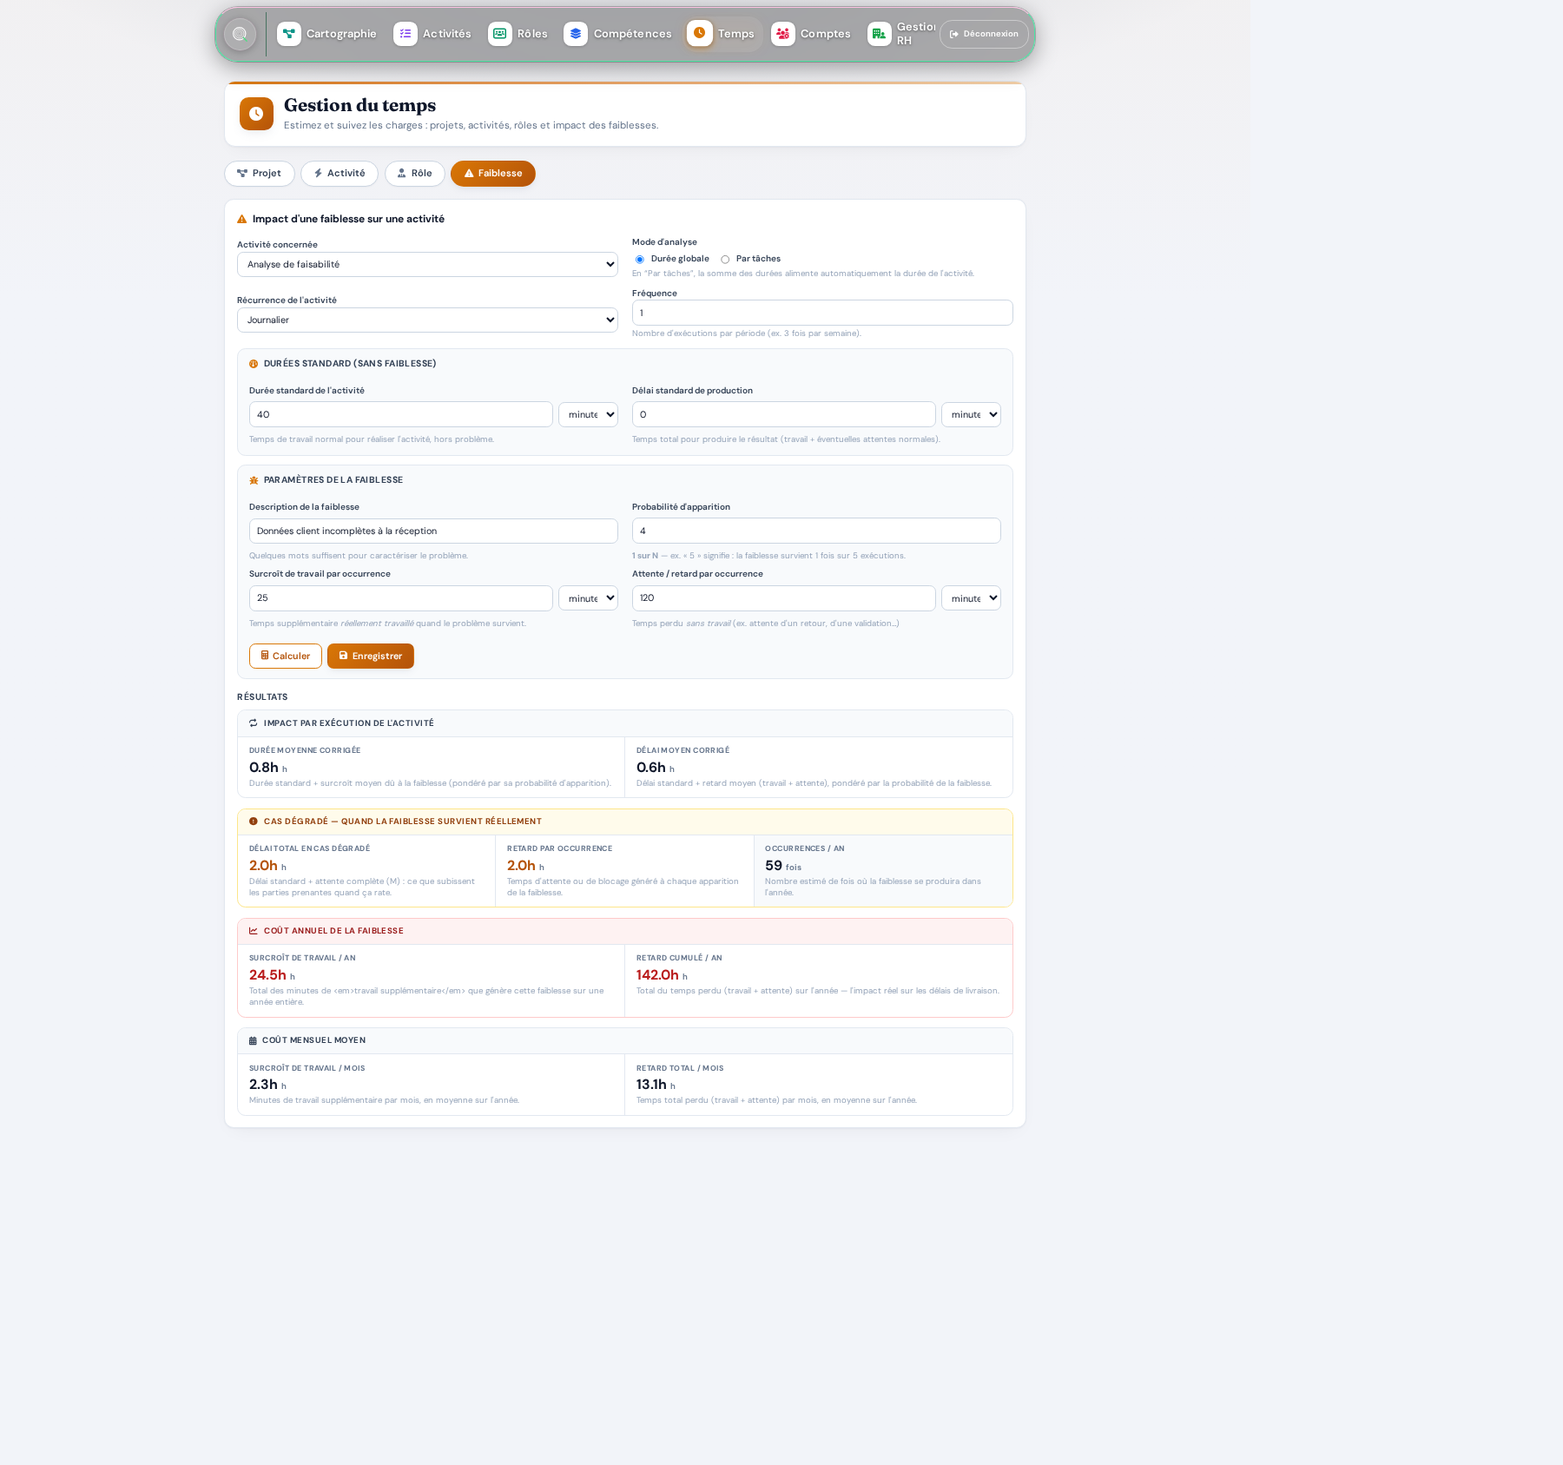
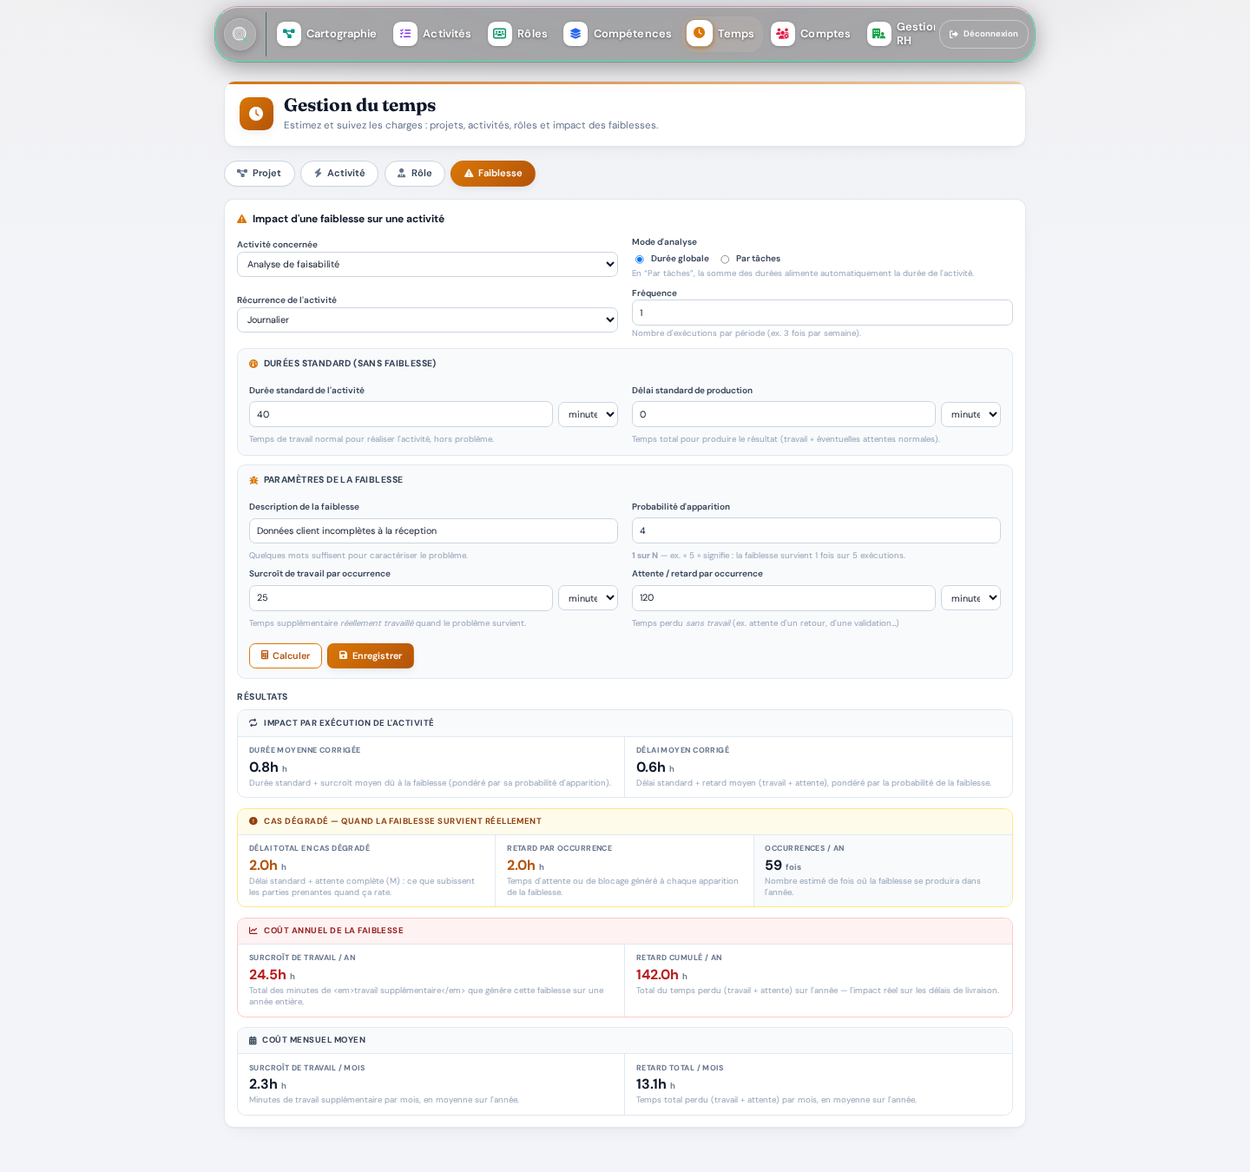
Guide : captures d'écran bilingues et recadrées
Les vidéos basculaient avec la langue, pas les captures : le guide en anglais
montrait encore des écrans français (« Gestion du temps », « Vue des Rôles »,
toute la barre de navigation).

capture_screens.py accepte GUIDE_LANG=fr|en comme capture_videos.py : la langue
est posée AVANT le login — l'écran de connexion est capturé non authentifié, il
en dépend aussi — et les fichiers sortent suffixés -en. Les sélecteurs par
libellé passent par T(fr, en), et la saisie d'exemple de la faiblesse est
traduite. Chaque <img> du guide est doublée t-fr / t-en.

Cadrage : trois captures étaient prises en full_page et faisaient 3 000 à
4 000 px de haut (role-detail, rh, temps-faiblesse). Réduites à la largeur du
guide, elles écrasaient tout le reste. shot_capped() garde le haut de la page
avec une hauteur plafonnée : elles font désormais 1440x1500 et 1440x1350, contre
1440x900 pour les autres — même famille de proportions.

Une image absente dans une langue masque l'image seule, et le cadre entier
seulement si aucune des deux versions ne charge (même règle que pour les vidéos).

Vérifié dans le navigateur, dans les deux sens : 16 captures et 8 vidéos
visibles, toutes du bon jeu, aucun média manquant.

diff --git a/docs/guide.html b/docs/guide.html
@@ -214,7 +214,7 @@
   /* Une vidéo pas encore régénérée (pipeline tools/guide) ne doit pas laisser
      un lecteur vide dans le guide : on masque la figure entière. */
   figure.no-video{display:none}
-  video.no-video{display:none}
+  video.no-video,img.no-video{display:none}
 
   /* ══ Thème sombre ══
      Seuls les jetons changent : le reste du guide s'appuie déjà dessus. */
@@ -386,7 +386,7 @@
      <i>Mot de passe oublié&nbsp;?</i> vous envoie un e-mail de réinitialisation.</span><span class="t-en">Open the application address provided by your administrator, enter your e-mail and password, then click <b>Sign in</b>. If you have forgotten it, the <i>Forgot password&nbsp;?</i> link sends you a reset e-mail.</span></p>
   <figure>
     <div class="frame"><div class="frame-bar"><i></i><i></i><i></i><span><span class="t-fr">Écran de connexion</span><span class="t-en">Sign-in screen</span></span></div>
-    <img src="assets/guide/login.png" alt="Écran de connexion" loading="lazy"></div>
+    <img class="t-fr" src="assets/guide/login.png" alt="Écran de connexion" loading="lazy"><img class="t-en" src="assets/guide/login-en.png" alt="Écran de connexion" loading="lazy"></div>
   </figure>
 
   <h3><span class="t-fr">À l'arrivée : les nouveautés</span><span class="t-en">On arrival: what's new</span></h3>
@@ -395,7 +395,7 @@
      et quand. Cliquez sur <b>C'est parti&nbsp;!</b> pour la refermer.</span><span class="t-en">The first time you sign in each day, a <b>Welcome</b> window sums up what's new in the application (on the left) and the recent activity in your workspace (on the right)&nbsp;: who changed what, and when. Click <b>Let's go&nbsp;!</b> to close it.</span></p>
   <figure>
     <div class="frame"><div class="frame-bar"><i></i><i></i><i></i><span><span class="t-fr">Fenêtre de bienvenue</span><span class="t-en">Welcome window</span></span></div>
-    <img src="assets/guide/bienvenue.png" alt="Pop-up de bienvenue" loading="lazy"></div>
+    <img class="t-fr" src="assets/guide/bienvenue.png" alt="Pop-up de bienvenue" loading="lazy"><img class="t-en" src="assets/guide/bienvenue-en.png" alt="Pop-up de bienvenue" loading="lazy"></div>
   </figure>
 
   <h3><span class="t-fr">Se repérer : la barre de navigation</span><span class="t-en">Finding your way: the navigation bar</span></h3>
@@ -403,7 +403,7 @@
      retrouverez cette couleur partout dans la page (bandeau, boutons, titres), et dans ce guide.</span><span class="t-en">The bar at the top of the screen is your compass. Each page has <b>its own icon and colour</b> — you will find that colour throughout the page (banner, buttons, headings), and in this guide.</span></p>
   <figure>
     <div class="frame"><div class="frame-bar"><i></i><i></i><i></i><span><span class="t-fr">Barre de navigation</span><span class="t-en">Navigation bar</span></span></div>
-    <img src="assets/guide/nav.png" alt="Barre de navigation" loading="lazy"></div>
+    <img class="t-fr" src="assets/guide/nav.png" alt="Barre de navigation" loading="lazy"><img class="t-en" src="assets/guide/nav-en.png" alt="Barre de navigation" loading="lazy"></div>
     <figcaption><span class="t-fr">De gauche à droite : <b>Cartographie</b> (le point de départ), <b>Activités</b>,
     <b>Rôles</b>, <b>Compétences</b>, <b>Temps</b>, <b>Comptes</b>, <b>Gestion RH</b>, <b>Outils</b>,
     <b>Paramètres</b> — et la déconnexion tout à droite.</span><span class="t-en">From left to right: <b>Activity map</b> (the starting point), <b>Activities</b>, <b>Roles</b>, <b>Competencies</b>, <b>Time</b>, <b>Accounts</b>, <b>HR management</b>, <b>Tools</b>, <b>Settings</b> — and sign-out on the far right.</span></figcaption>
@@ -468,7 +468,7 @@
 
   <figure>
     <div class="frame"><div class="frame-bar"><i></i><i></i><i></i><span><span class="t-fr">Page Cartographie</span><span class="t-en">Activity map page</span></span></div>
-    <img src="assets/guide/carto.png" alt="Page cartographie" loading="lazy"></div>
+    <img class="t-fr" src="assets/guide/carto.png" alt="Page cartographie" loading="lazy"><img class="t-en" src="assets/guide/carto-en.png" alt="Page cartographie" loading="lazy"></div>
     <figcaption><span class="t-fr"><b>À gauche</b>&nbsp;: la carte (chaque couleur de bande = une compétence clé).
     <b>À droite</b>&nbsp;: la liste des activités de la carte, avec recherche.
     <b>En haut</b>&nbsp;: Import IA, Connexions inter-cartographies et Gestion des entités.</span><span class="t-en"><b>On the left</b>&nbsp;: the map (each band colour = one key competency). <b>On the right</b>&nbsp;: the list of activities on the map, with search. <b>At the top</b>&nbsp;: AI import, cross-map connections and entity management.</span></figcaption>
@@ -650,7 +650,7 @@
 
   <figure>
     <div class="frame"><div class="frame-bar"><i></i><i></i><i></i><span><span class="t-fr">Liste des activités</span><span class="t-en">Activity list</span></span></div>
-    <img src="assets/guide/activites-liste.png" alt="Liste des activités" loading="lazy"></div>
+    <img class="t-fr" src="assets/guide/activites-liste.png" alt="Liste des activités" loading="lazy"><img class="t-en" src="assets/guide/activites-liste-en.png" alt="Liste des activités" loading="lazy"></div>
     <figcaption><span class="t-fr">Chaque barre violette est une activité. La <b>barre de recherche</b> filtre la liste en
     direct&nbsp;; un clic sur une barre déplie la fiche.</span><span class="t-en">Each purple bar is an activity. The <b>search bar</b> filters the list live&nbsp;; clicking a bar unfolds the record.</span></figcaption>
   </figure>
@@ -667,7 +667,7 @@
   </ul>
   <figure>
     <div class="frame"><div class="frame-bar"><i></i><i></i><i></i><span><span class="t-fr">Fiche d'activité — Vue d'ensemble</span><span class="t-en">Activity record — Overview</span></span></div>
-    <img src="assets/guide/activite-fiche.png" alt="Fiche activité" loading="lazy"></div>
+    <img class="t-fr" src="assets/guide/activite-fiche.png" alt="Fiche activité" loading="lazy"><img class="t-en" src="assets/guide/activite-fiche-en.png" alt="Fiche activité" loading="lazy"></div>
     <figcaption><span class="t-fr">Sous le titre&nbsp;: la description et le <b>Garant</b>. Les tableaux
     <b>Entrantes/Sortantes</b> listent les données qui arrivent et repartent — ce sont exactement les
     flèches de la cartographie.</span><span class="t-en">Under the title&nbsp;: the description and the <b>Owner</b>. The <b>Incoming/Outgoing</b> tables list the data arriving and leaving — these are exactly the arrows on the activity map.</span></figcaption>
@@ -789,7 +789,7 @@
 
   <figure>
     <div class="frame"><div class="frame-bar"><i></i><i></i><i></i><span><span class="t-fr">Page Rôles</span><span class="t-en">Roles page</span></span></div>
-    <img src="assets/guide/roles-liste.png" alt="Liste des rôles" loading="lazy"></div>
+    <img class="t-fr" src="assets/guide/roles-liste.png" alt="Liste des rôles" loading="lazy"><img class="t-en" src="assets/guide/roles-liste-en.png" alt="Liste des rôles" loading="lazy"></div>
     <figcaption><span class="t-fr">Une barre verte par rôle. En haut&nbsp;: la <b>recherche</b> et le bouton
     <b>Exporter</b>.</span><span class="t-en">One green bar per role. At the top&nbsp;: the <b>search</b> box and the <b>Export</b> button.</span></figcaption>
   </figure>
@@ -806,7 +806,7 @@
   </ul>
   <figure>
     <div class="frame"><div class="frame-bar"><i></i><i></i><i></i><span><span class="t-fr">Fiche d'un rôle dépliée</span><span class="t-en">A role record, unfolded</span></span></div>
-    <img src="assets/guide/role-detail.png" alt="Détail d'un rôle" loading="lazy"></div>
+    <img class="t-fr" src="assets/guide/role-detail.png" alt="Détail d'un rôle" loading="lazy"><img class="t-en" src="assets/guide/role-detail-en.png" alt="Détail d'un rôle" loading="lazy"></div>
   </figure>
   <figure>
     <div class="frame frame-video"><div class="frame-bar"><span><span class="t-fr">Parcourir un rôle et compléter sa mission</span><span class="t-en">Browse a role and complete its mission</span></span></div>
@@ -851,7 +851,7 @@
 
   <figure>
     <div class="frame"><div class="frame-bar"><i></i><i></i><i></i><span><span class="t-fr">Page Compétences</span><span class="t-en">Competencies page</span></span></div>
-    <img src="assets/guide/competences.png" alt="Page compétences" loading="lazy"></div>
+    <img class="t-fr" src="assets/guide/competences.png" alt="Page compétences" loading="lazy"><img class="t-en" src="assets/guide/competences-en.png" alt="Page compétences" loading="lazy"></div>
     <figcaption><span class="t-fr"><b>À gauche</b>&nbsp;: vous (le manager) et vos collaborateurs.
     <b>À droite</b>&nbsp;: les rôles du collaborateur sélectionné, puis le tableau de ses activités avec
     niveau <b>requis</b>, niveau <b>démontré</b> et <b>écart</b>.</span><span class="t-en"><b>On the left</b>&nbsp;: you (the manager) and your team. <b>On the right</b>&nbsp;: the selected person's roles, then the table of their activities with the <b>required</b> level, the <b>demonstrated</b> level and the <b>gap</b>.</span></figcaption>
@@ -1010,7 +1010,7 @@
 
   <figure>
     <div class="frame"><div class="frame-bar"><i></i><i></i><i></i><span><span class="t-fr">Onglet Projet</span><span class="t-en">Project tab</span></span></div>
-    <img src="assets/guide/temps-projet.png" alt="Temps - projet" loading="lazy"></div>
+    <img class="t-fr" src="assets/guide/temps-projet.png" alt="Temps - projet" loading="lazy"><img class="t-en" src="assets/guide/temps-projet-en.png" alt="Temps - projet" loading="lazy"></div>
     <figcaption><span class="t-fr">Une ligne par activité du projet. Les indicateurs discrets sont intermédiaires&nbsp;; la
     <b>Charge globale</b> (en ambre) est le résultat qui compte. Les projets enregistrés se retrouvent en
     dessous.</span><span class="t-en">One row per project activity. The quiet indicators are intermediate&nbsp;; the <b>Overall workload</b> (in amber) is the figure that matters. Saved projects appear underneath.</span></figcaption>
@@ -1026,7 +1026,7 @@
   </figure>
   <figure>
     <div class="frame"><div class="frame-bar"><i></i><i></i><i></i><span><span class="t-fr">Onglet Rôle</span><span class="t-en">Role tab</span></span></div>
-    <img src="assets/guide/temps-role.png" alt="Temps - rôle" loading="lazy"></div>
+    <img class="t-fr" src="assets/guide/temps-role.png" alt="Temps - rôle" loading="lazy"><img class="t-en" src="assets/guide/temps-role-en.png" alt="Temps - rôle" loading="lazy"></div>
     <figcaption><span class="t-fr">Choisissez un rôle&nbsp;: ses activités se chargent seules. Renseignez durées et
     récurrences&nbsp;; l'<b>estimation mensuelle/annuelle</b> s'affiche en ambre.</span><span class="t-en">Pick a role&nbsp;: its activities load on their own. Fill in durations and recurrences&nbsp;; the <b>monthly/yearly estimate</b> appears in amber.</span></figcaption>
   </figure>
@@ -1121,7 +1121,7 @@
   </figure>
   <figure>
     <div class="frame"><div class="frame-bar"><i></i><i></i><i></i><span><span class="t-fr">Résultats d'une faiblesse</span><span class="t-en">Results for a weakness</span></span></div>
-    <img src="assets/guide/temps-faiblesse.png" alt="Résultats faiblesse" loading="lazy"></div>
+    <img class="t-fr" src="assets/guide/temps-faiblesse.png" alt="Résultats faiblesse" loading="lazy"><img class="t-en" src="assets/guide/temps-faiblesse-en.png" alt="Résultats faiblesse" loading="lazy"></div>
     <figcaption><span class="t-fr">Quatre groupes de résultats&nbsp;: impact par exécution, cas dégradé (ambre),
     <b>coût annuel</b> (rouge — le chiffre à retenir) et coût mensuel.</span><span class="t-en">Four groups of results&nbsp;: impact per run, degraded case (amber), <b>annual cost</b> (red — the figure to remember) and monthly cost.</span></figcaption>
   </figure>
@@ -1147,7 +1147,7 @@
 
   <figure>
     <div class="frame"><div class="frame-bar"><i></i><i></i><i></i><span><span class="t-fr">Page Comptes — onglet Utilisateurs</span><span class="t-en">Accounts page — Users tab</span></span></div>
-    <img src="assets/guide/comptes.png" alt="Page comptes" loading="lazy"></div>
+    <img class="t-fr" src="assets/guide/comptes.png" alt="Page comptes" loading="lazy"><img class="t-en" src="assets/guide/comptes-en.png" alt="Page comptes" loading="lazy"></div>
     <figcaption><span class="t-fr">L'onglet <b>Utilisateurs</b> est celui d'accueil&nbsp;: la liste, avec recherche et
     filtres. Viennent ensuite <b>Créer</b> (formulaire) et <b>Import Excel</b> (tous les comptes d'un
     coup depuis un fichier).</span><span class="t-en">The <b>Users</b> tab is the landing tab&nbsp;: the list, with search and filters. Then come <b>Create</b> (form) and <b>Excel import</b> (every account at once from a file).</span></figcaption>
@@ -1200,7 +1200,7 @@
 
   <figure>
     <div class="frame"><div class="frame-bar"><i></i><i></i><i></i><span><span class="t-fr">Page Gestion RH</span><span class="t-en">HR management page</span></span></div>
-    <img src="assets/guide/rh.png" alt="Page gestion RH" loading="lazy"></div>
+    <img class="t-fr" src="assets/guide/rh.png" alt="Page gestion RH" loading="lazy"><img class="t-en" src="assets/guide/rh-en.png" alt="Page gestion RH" loading="lazy"></div>
     <figcaption><span class="t-fr">De haut en bas&nbsp;: <b>Paramètres de l'entreprise</b> (heures/jour, jours/semaine… —
     utilisés par la page Temps), <b>Gestion des rôles</b>, <b>Collaborateurs</b>,
     <b>Affectation</b> par manager, <b>Aperçu global des évaluations</b> (feux
@@ -1233,7 +1233,7 @@
 
   <figure>
     <div class="frame"><div class="frame-bar"><i></i><i></i><i></i><span><span class="t-fr">Page Outils</span><span class="t-en">Tools page</span></span></div>
-    <img src="assets/guide/outils.png" alt="Page outils" loading="lazy"></div>
+    <img class="t-fr" src="assets/guide/outils.png" alt="Page outils" loading="lazy"><img class="t-en" src="assets/guide/outils-en.png" alt="Page outils" loading="lazy"></div>
     <figcaption><span class="t-fr">Une carte par outil, avec son nombre d'utilisations. Le bouton <b>Gérer / Supprimer</b>
     propose remplacement et suppression&nbsp;— l'application vous prévient si l'outil est encore utilisé
     quelque part.</span><span class="t-en">One card per tool, with how many times it is used. The <b>Manage / Delete</b> button offers replacement and deletion&nbsp;— the application warns you if the tool is still in use somewhere.</span></figcaption>
@@ -1283,7 +1283,7 @@
 
   <figure>
     <div class="frame"><div class="frame-bar"><i></i><i></i><i></i><span><span class="t-fr">Page Paramètres (vue administrateur)</span><span class="t-en">Settings page (administrator view)</span></span></div>
-    <img src="assets/guide/parametres.png" alt="Page paramètres" loading="lazy"></div>
+    <img class="t-fr" src="assets/guide/parametres.png" alt="Page paramètres" loading="lazy"><img class="t-en" src="assets/guide/parametres-en.png" alt="Page paramètres" loading="lazy"></div>
   </figure>
   </div>
 </section>
@@ -1379,6 +1379,16 @@
 
 // ── Vidéo absente (pipeline tools/guide pas encore relancé) : on masque la
 //    figure entière plutôt que de laisser un lecteur vide dans le guide.
+// Capture absente dans une langue : on masque l'image, et le cadre entier
+// seulement si aucune des deux versions n'a pu être chargée.
+document.querySelectorAll('figure .frame img').forEach(im => {
+  im.addEventListener('error', () => {
+    im.classList.add('no-video');
+    const fig = im.closest('figure');
+    if (fig && !fig.querySelector('img:not(.no-video)')) fig.classList.add('no-video');
+  }, true);
+});
+
 document.querySelectorAll('figure .frame-video video').forEach(v => {
   v.addEventListener('error', () => {
     // Une figure porte les DEUX langues : on masque la vidéo absente, et la

diff --git a/tools/guide/capture_screens.py b/tools/guide/capture_screens.py
@@ -13,6 +13,15 @@ OUT = os.path.abspath(os.path.join(BASE, '..', '..', 'docs', 'assets', 'guide'))
 os.makedirs(OUT, exist_ok=True)
 URL = 'http://127.0.0.1:5601'
 
+# Langue du jeu de captures : GUIDE_LANG=en produit les fichiers suffixés « -en ».
+LANG = os.environ.get('GUIDE_LANG', 'fr')
+SUFFIXE = '' if LANG == 'fr' else '-' + LANG
+
+
+def T(fr, en):
+    """Texte selon la langue du jeu de captures (libellés ciblés, saisies)."""
+    return en if LANG == 'en' else fr
+
 # Curseur visible + halo de clic pour les vidéos
 CURSOR_JS = """
 window.addEventListener('DOMContentLoaded', () => {
@@ -36,14 +45,19 @@ window.addEventListener('DOMContentLoaded', () => {
 """
 
 
+def set_lang(pg):
+    """Langue de la session. Appelée AVANT le login : l'écran de connexion en
+    dépend lui aussi, et il est capturé avant d'être authentifié."""
+    pg.request.post(URL + '/parametres/set_language', data={'lang': LANG})
+
+
 def login(pg):
     pg.goto(URL + '/login')
     pg.fill('input[name="email"]', 'demo@afdec.fr')
     pg.fill('input[name="password"]', 'Visual123!')
     pg.click('button[type="submit"], input[type="submit"]')
     pg.wait_for_load_state('networkidle')
-    # Captures en français, quelle que soit la langue par défaut du compte.
-    pg.request.post(URL + '/parametres/set_language', data={'lang': 'fr'})
+    set_lang(pg)          # le compte a sa propre langue : on impose celle du jeu
     pg.wait_for_load_state('networkidle')
 
 
@@ -74,8 +88,24 @@ def slow_click(pg, locator, before=600, after=900):
 
 
 def shot(pg, name, full=False, clip=None):
-    pg.screenshot(path=os.path.join(OUT, name), full_page=full, clip=clip)
-    print('shot', name)
+    cible = name.replace('.png', SUFFIXE + '.png')
+    pg.screenshot(path=os.path.join(OUT, cible), full_page=full, clip=clip)
+    print('shot', cible)
+
+
+def shot_capped(pg, name, max_h=1500):
+    """Capture le HAUT de la page, hauteur plafonnée.
+
+    full_page=True sur ces pages donnait des images de 3 000 à 4 000 px de haut :
+    réduites à la largeur du guide, elles écrasaient tout le reste et devenaient
+    illisibles. On garde le haut de la page dans un format proche du carré.
+    """
+    hauteur = pg.evaluate("document.documentElement.scrollHeight")
+    largeur = pg.viewport_size['width']
+    pg.evaluate("window.scrollTo(0, 0)")
+    pg.wait_for_timeout(200)
+    shot(pg, name, full=True,
+         clip={'x': 0, 'y': 0, 'width': largeur, 'height': min(hauteur, max_h)})
 
 
 # Chromium : CHROME_PATH si fourni, sinon celui installé par
@@ -90,9 +120,11 @@ with sync_playwright() as p:
     ctx = browser.new_context(viewport={'width': 1440, 'height': 900})
     pg = ctx.new_page()
 
-    # Connexion (avant login)
+    # Connexion (avant login) — la langue doit déjà être posée
     pg.goto(URL + '/login')
-    pg.wait_for_timeout(600)
+    set_lang(pg)
+    pg.reload()
+    pg.wait_for_timeout(700)
     shot(pg, 'login.png')
 
     login(pg)
@@ -111,7 +143,7 @@ with sync_playwright() as p:
     shot(pg, 'activites-liste.png')
     slow_click(pg, pg.locator('.activity-header').first, before=100, after=800)
     shot(pg, 'activite-fiche.png')
-    tab = pg.locator('.tab-button', has_text='Compétences').first
+    tab = pg.locator('.tab-button', has_text=T('Compétences', 'Competencies')).first
     if tab.count():
         slow_click(pg, tab, before=100, after=800)
         shot(pg, 'activite-onglet-competences.png')
@@ -120,10 +152,10 @@ with sync_playwright() as p:
     goto(pg, '/roles_view/')
     shot(pg, 'roles-liste.png')
     slow_click(pg, pg.locator('.role-header').first, before=100, after=700)
-    b1 = pg.locator('.block-header', has_text='Garant').first
+    b1 = pg.locator('.block-header', has_text=T('Garant', 'Guarantor')).first
     if b1.count():
         slow_click(pg, b1, before=100, after=700)
-    shot(pg, 'role-detail.png', full=True)
+    shot_capped(pg, 'role-detail.png')
     # Modale export
     pg.locator('#btn-export-roles').click()
     pg.wait_for_timeout(900)
@@ -147,20 +179,21 @@ with sync_playwright() as p:
     slow_click(pg, pg.locator('.subtab[data-subtab="role"]'), before=100, after=900)
     shot(pg, 'temps-role.png')
     slow_click(pg, pg.locator('.subtab[data-subtab="faiblesse"]'), before=100, after=700)
-    pg.locator('#fw-k').fill('Données client incomplètes à la réception')
+    pg.locator('#fw-k').fill(T('Données client incomplètes à la réception',
+                              'Incomplete customer data on receipt'))
     pg.locator('#fw-n').fill('4')
     pg.locator('#fw-l').fill('25')
     pg.locator('#fw-m').fill('120')
     if pg.locator('#fw-dur').input_value() in ('', '0'):
         pg.locator('#fw-dur').fill('40')
     slow_click(pg, pg.locator('#btn-fw-calc'), before=200, after=1200)
-    shot(pg, 'temps-faiblesse.png', full=True)
+    shot_capped(pg, 'temps-faiblesse.png')
 
     # Comptes / RH / Outils / Paramètres
     goto(pg, '/comptes/')
     shot(pg, 'comptes.png')
     goto(pg, '/gestion_rh/')
-    shot(pg, 'rh.png', full=True)
+    shot_capped(pg, 'rh.png')
     goto(pg, '/gestion_outils/')
     shot(pg, 'outils.png')
     goto(pg, '/parametres/')
